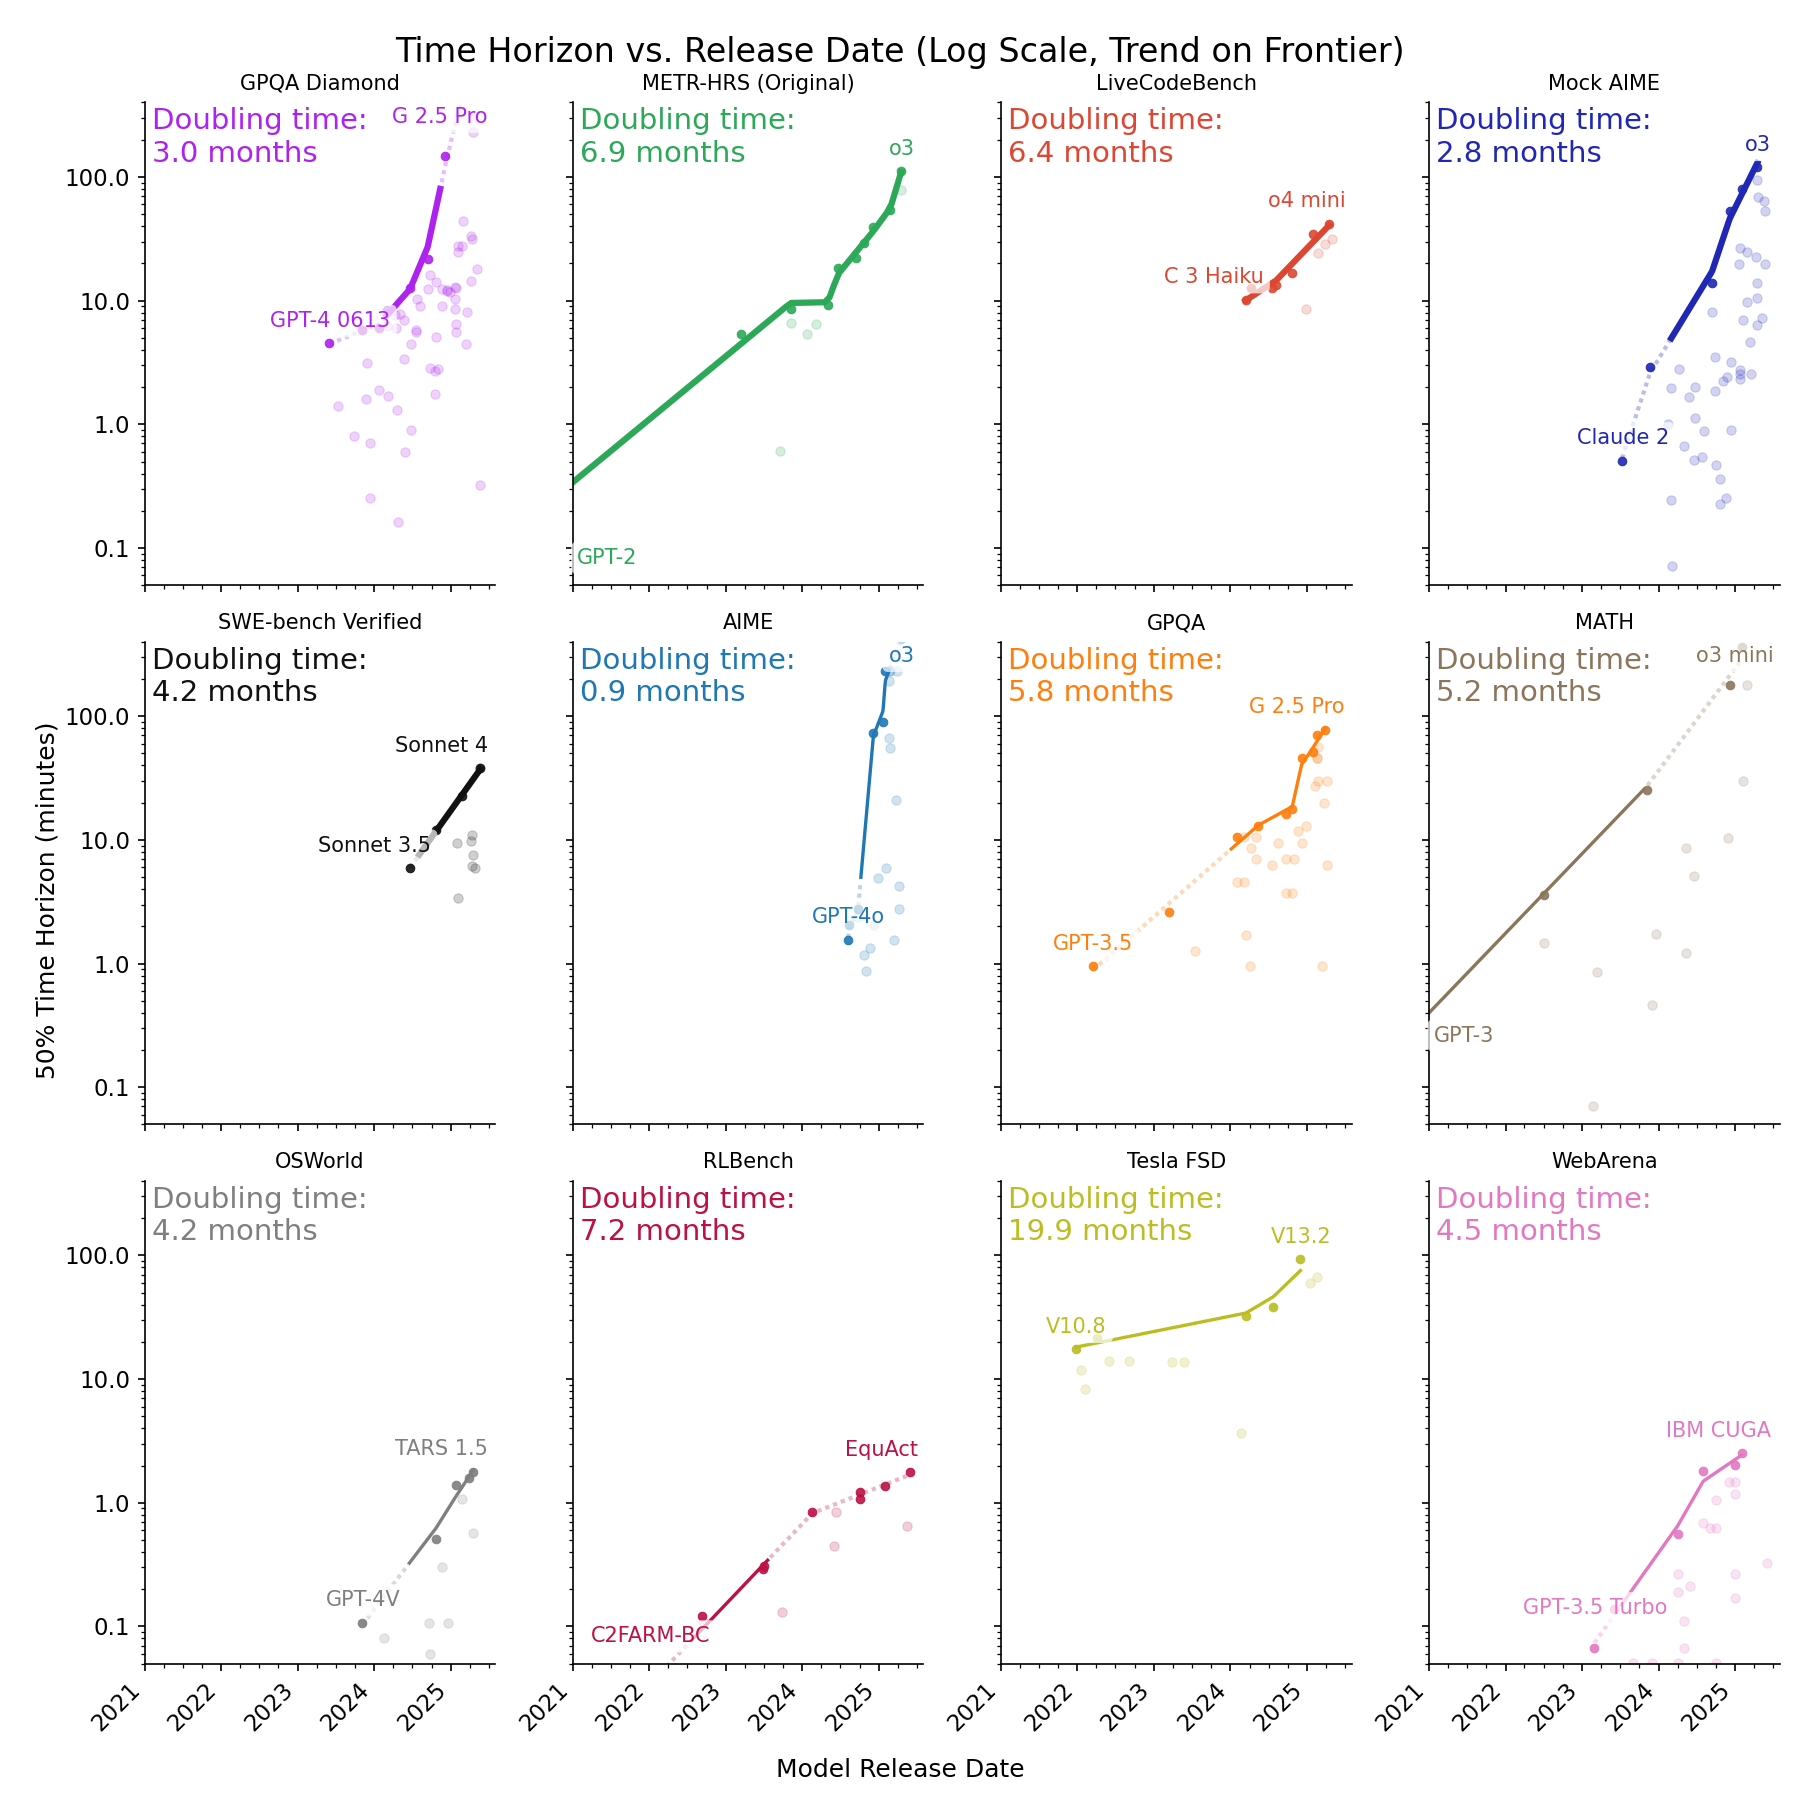
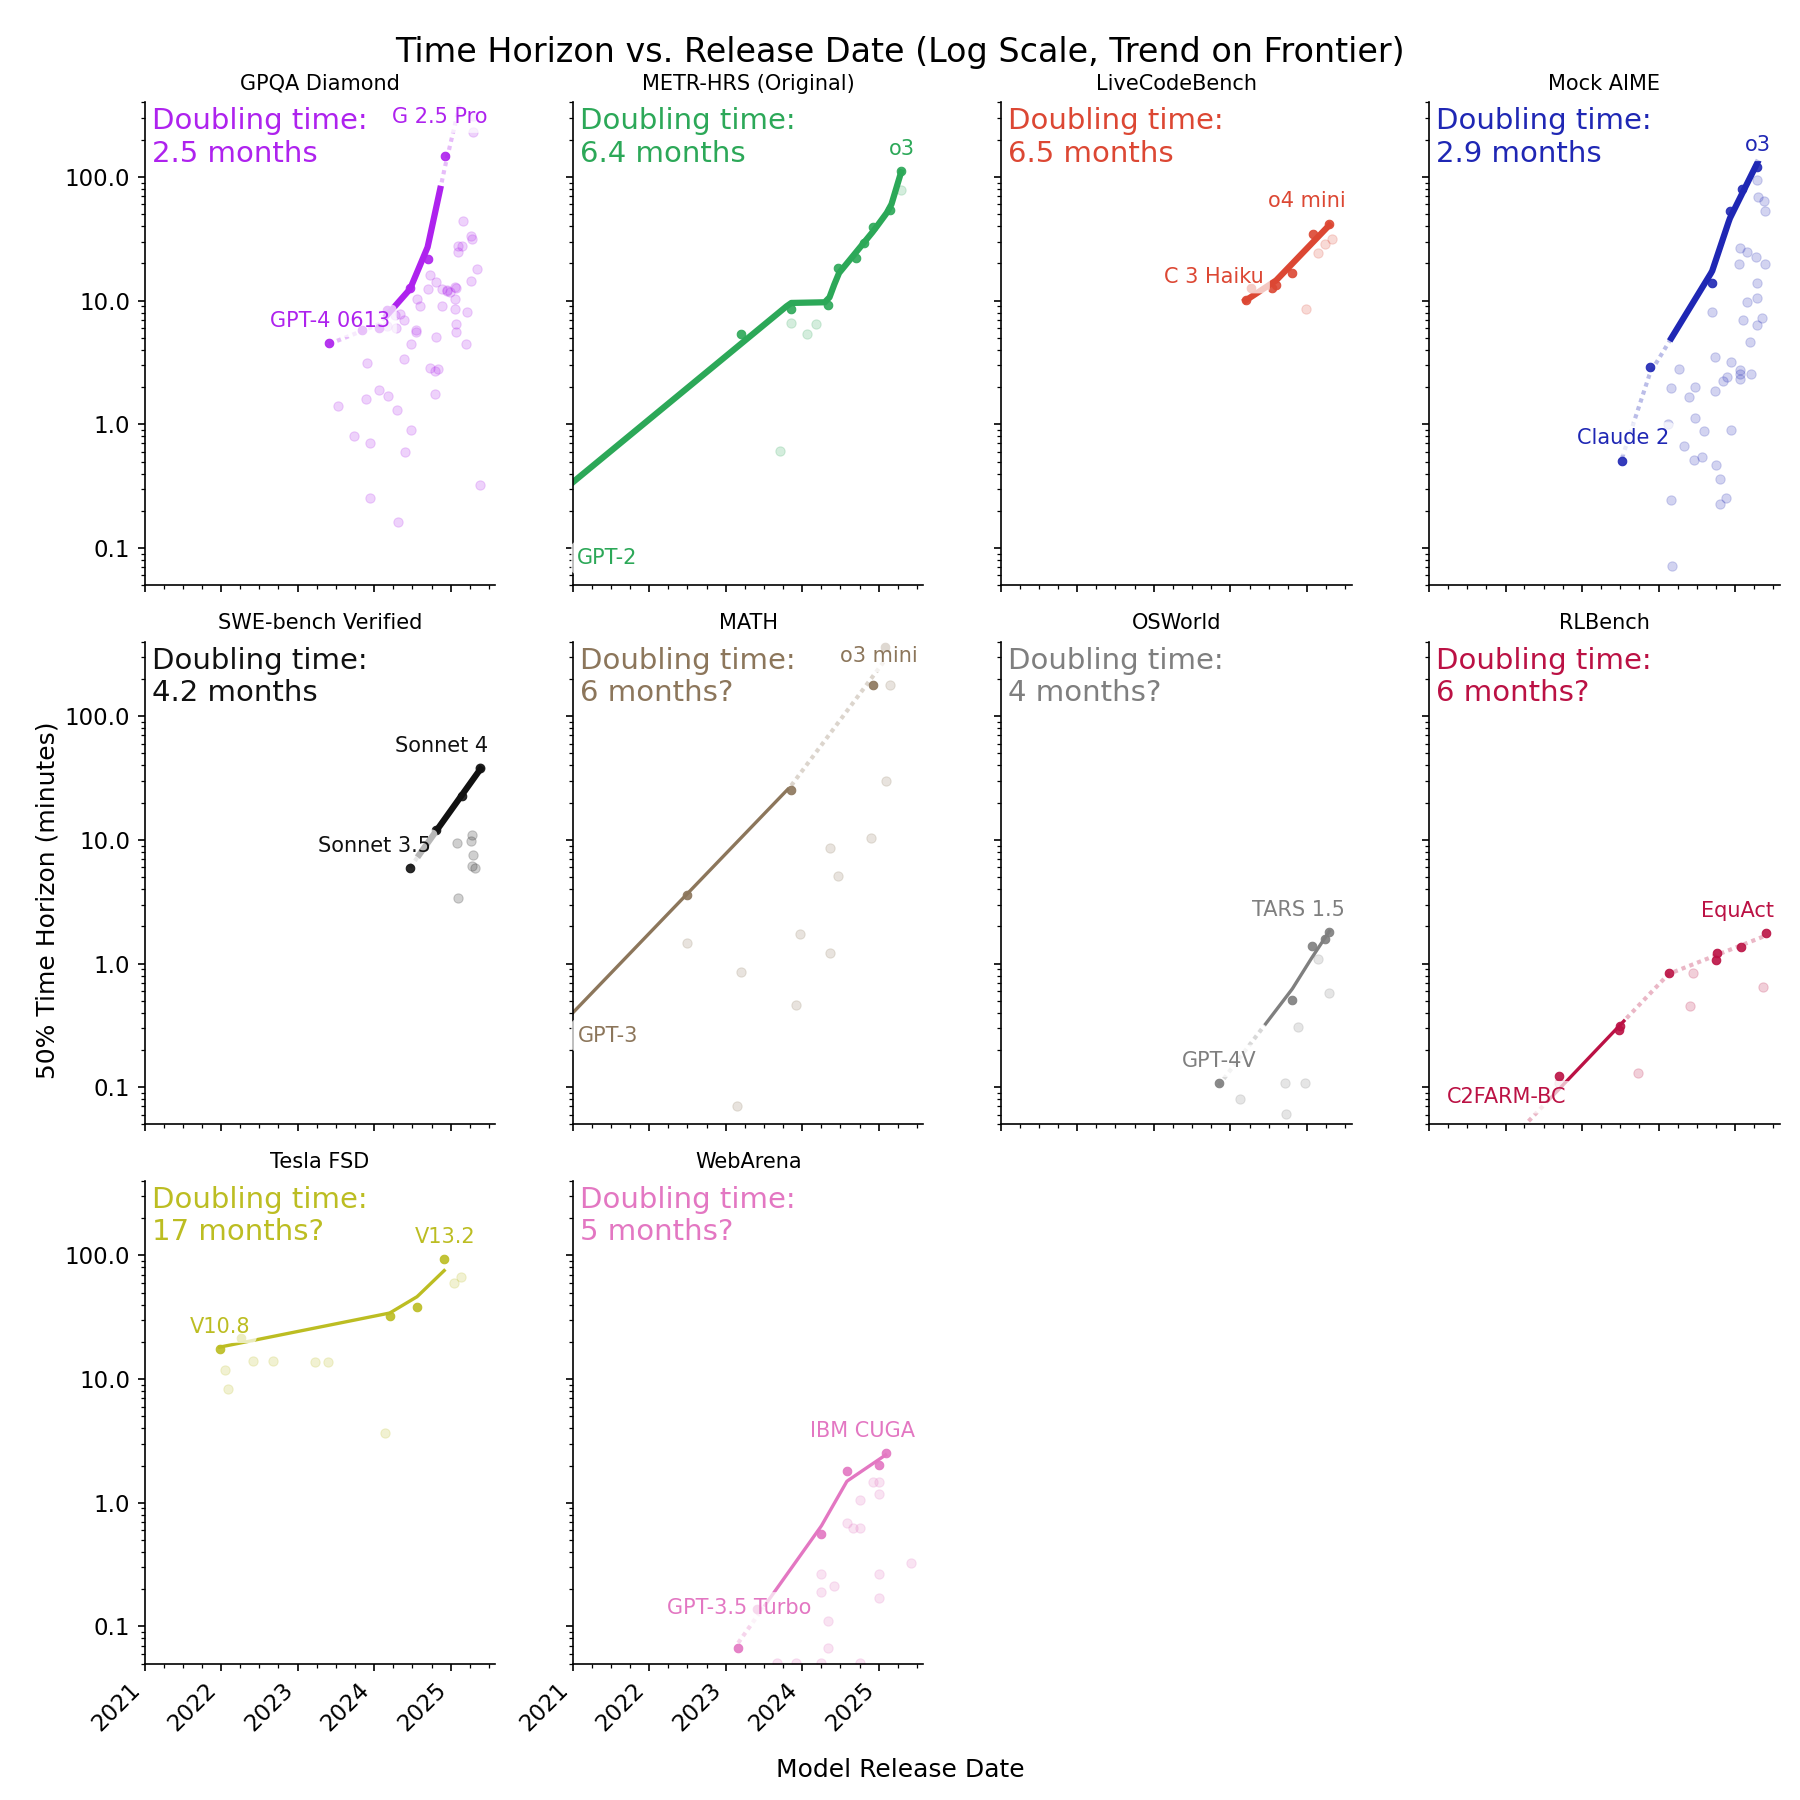
edits to subplots folder

diff --git a/plots.py b/plots.py
@@ -235,12 +235,6 @@ def plot_lines_over_time(df, output_file,
             X = frontier_sorted['release_date_num'].values
             Y_log = frontier_sorted['log2_horizon_minutes'].values
 
-            # Keep linear regression for doubling rate calculation
-            coeffs = np.polyfit(X, Y_log, 1)
-            doubling_rate_per_year = coeffs[0] * 365  # Convert from per day to per year
-            months_per_doubling = 12 / doubling_rate_per_year
-            slope = coeffs[0]  # Store raw slope for marker selection
-
             # degree-1 spline to avoid negative slopes
             spline = make_splrep(X, Y_log, s=0.2, k=1)
 
@@ -252,18 +246,37 @@ def plot_lines_over_time(df, output_file,
             mid_x_num = x_line_num[mid_point_idx]
             mid_y = 2**y_line_log[mid_point_idx]
             mid_x = mdates.num2date(mid_x_num)
-            
-            if params.show_doubling_rate:
-                rate_text = f"Doubling time:\n{months_per_doubling:.1f} months"
-                ax.text(0.02, 0.99, rate_text, fontsize=14, color=color, 
-                        ha='left', va='top', transform=ax.transAxes, 
-                        bbox=dict(facecolor='white', alpha=0.7, pad=2, edgecolor='none'))
 
             x_line_date = np.array(mdates.num2date(x_line_num))
             y_line = 2.0**y_line_log
 
             # Split the line into three segments based on p2 and p98
             mask_within = (y_line >= p2) & (y_line <= p98)
+            
+            # Calculate doubling rate using slope between min/max points in mask_within
+            if params.show_doubling_rate and np.sum(mask_within) >= 2:
+                within_x = x_line_num[mask_within]
+                within_y_log = y_line_log[mask_within]
+                
+                # Find min and max x values and their corresponding y values
+                min_idx = np.argmin(within_x)
+                max_idx = np.argmax(within_x)
+                
+                x_min, y_log_min = within_x[min_idx], within_y_log[min_idx]
+                x_max, y_log_max = within_x[max_idx], within_y_log[max_idx]
+                
+                # Calculate slope between these two points
+                slope = (y_log_max - y_log_min) / (x_max - x_min)
+                doubling_rate_per_year = slope * 365  # Convert from per day to per year
+                months_per_doubling = 12 / doubling_rate_per_year
+                
+                if has_placeholder_slope:
+                    rate_text = f"Doubling time:\n{months_per_doubling:.0f} months?"
+                else:
+                    rate_text = f"Doubling time:\n{months_per_doubling:.1f} months"
+                ax.text(0.02, 0.99, rate_text, fontsize=14, color=color, 
+                        ha='left', va='top', transform=ax.transAxes, 
+                        bbox=dict(facecolor='white', alpha=0.7, pad=2, edgecolor='none'))
             mask_above = y_line > p98
             mask_below = y_line < p2
 
@@ -1067,7 +1080,7 @@ def main():
         # Generate and save the lines over time plot using the original loaded data
         plot_lines_over_time(all_df.copy(), LINES_PLOT_OUTPUT_FILE, benchmark_data, LinesPlotParams(hide_benchmarks=["hcast_r_s", "video_mme", "gpqa", "aime","livecodebench_2411_2505_approx"], show_points_level=ShowPointsLevel.FRONTIER, verbose=False))
         
-        plot_lines_over_time(all_df.copy(), LINES_SUBPLOTS_OUTPUT_FILE, benchmark_data, LinesPlotParams(hide_benchmarks=["hcast_r_s", "video_mme","livecodebench_2411_2505_approx"], show_points_level=ShowPointsLevel.ALL, subplots=True, show_doubling_rate=True, xbound=("2021-01-01", "2025-08-01"), ybound=(0.05, 400)))
+        plot_lines_over_time(all_df.copy(), LINES_SUBPLOTS_OUTPUT_FILE, benchmark_data, LinesPlotParams(hide_benchmarks=["hcast_r_s", "video_mme","livecodebench_2411_2505_approx", "aime", "gpqa"], show_points_level=ShowPointsLevel.ALL, subplots=True, show_doubling_rate=True, xbound=("2021-01-01", "2025-08-01"), ybound=(0.05, 400)))
 
 
     # --- Benchmark Task Lengths Plot ---
